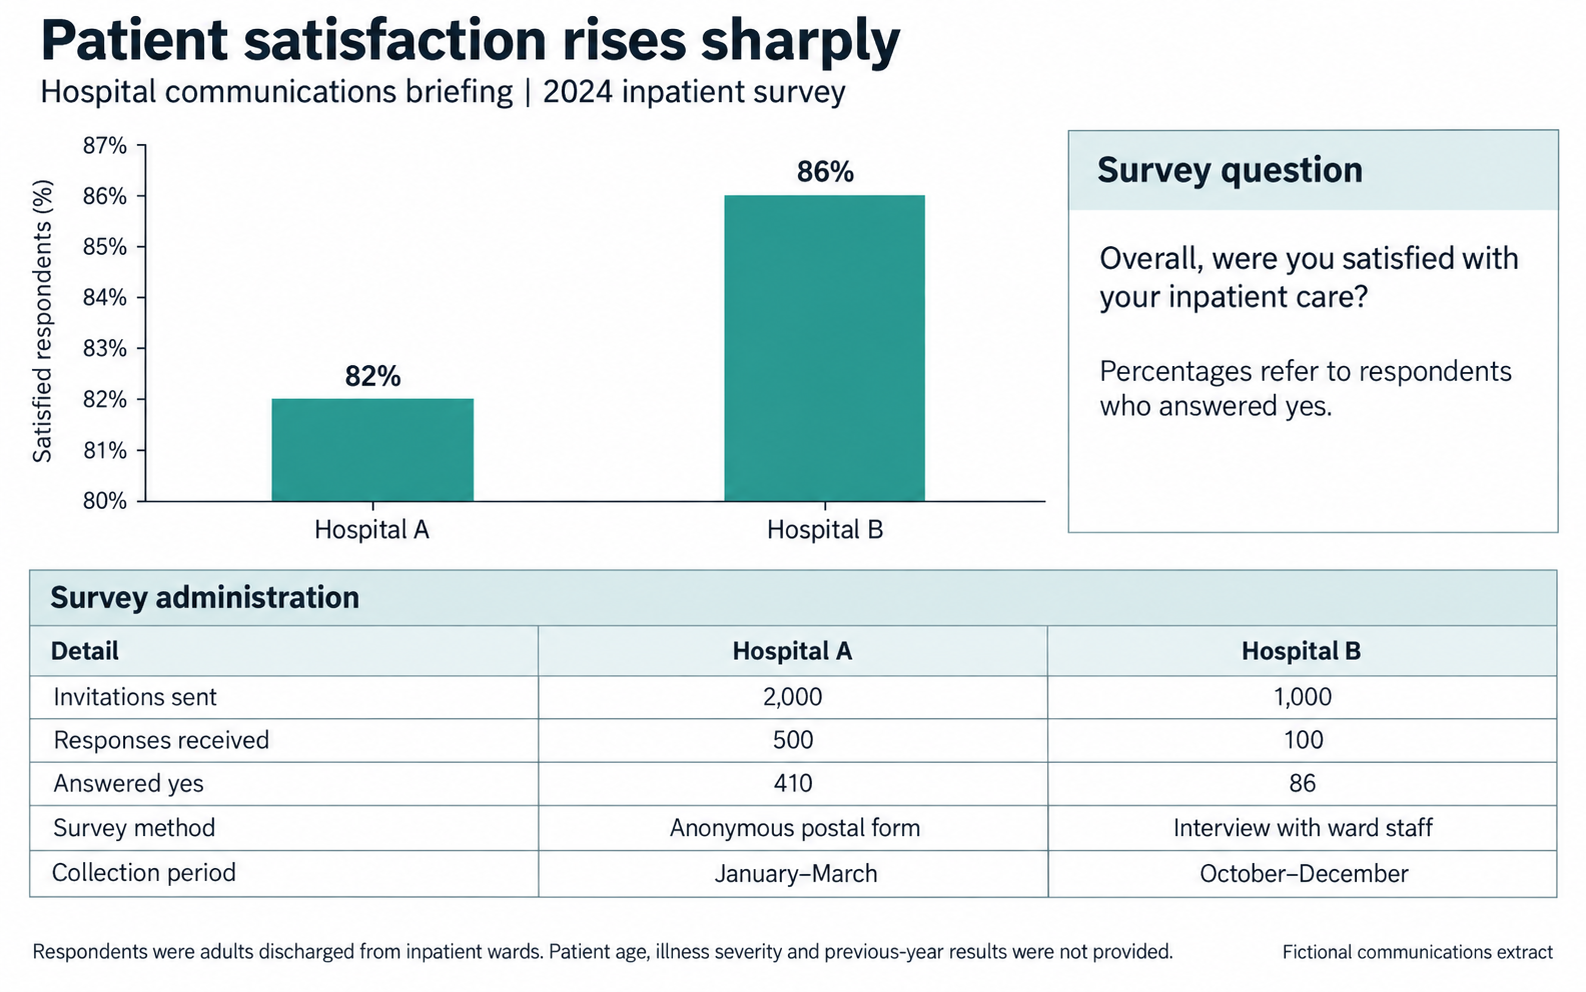
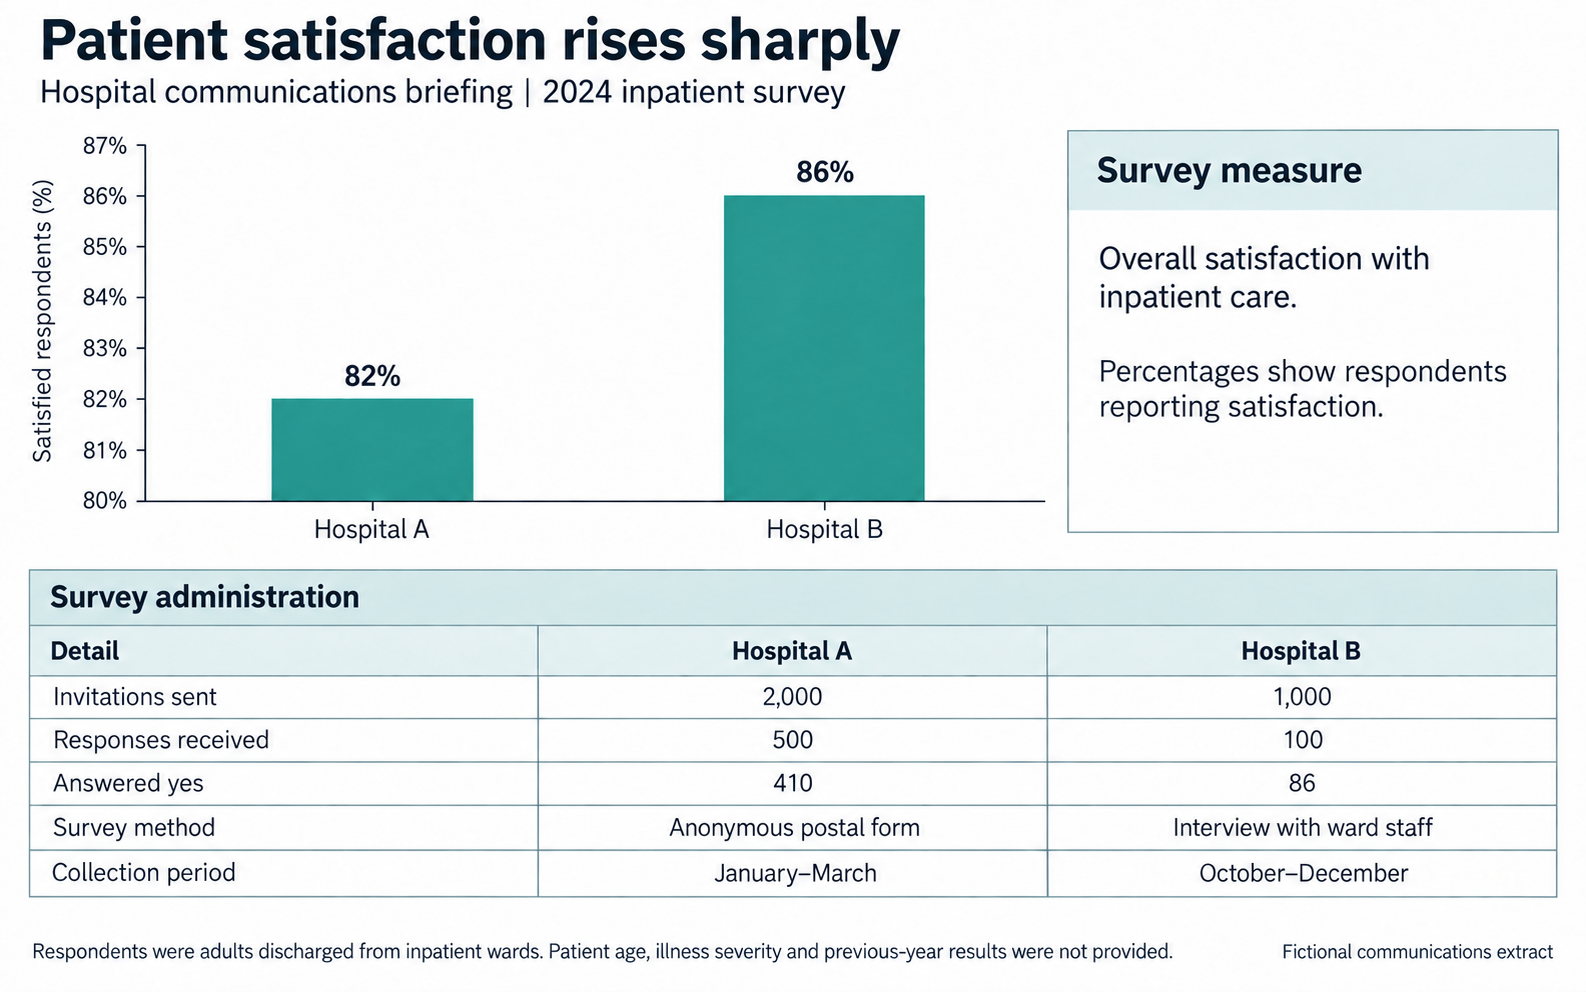
Clean interview stimuli and complete final image batch

diff --git a/docs/interview-stimulus-review-final.md b/docs/interview-stimulus-review-final.md
@@ -1,0 +1,53 @@
+# Interview stimuli: final review
+
+Reviewed 19 September 2026. All 27 saved PNGs were visually inspected. Seventeen required editing; ten were already suitable and left unchanged. Edits used the built-in imagegen tool, not the API/CLI.
+
+## Current requirements
+
+- Images contain evidence/scenario facts and descriptive titles only: no embedded candidate questions, ranking prompts or answer instructions.
+- Questions and assessment instructions belong in separate app text; see [candidate tasks](interview-stimulus-candidate-tasks.txt).
+- Any depicted people are male. Image 27's two standing women were replaced with men; their roles and the collapsed man's position were preserved. Other images contain no women; generic person icons were retained.
+- Preserve the distinct visual styles and original figures. All datasets and scenarios are fictional, not clinical guidance.
+- Images 24 and 27 now have opaque, high-contrast backgrounds. Their earlier unreadable variants were rejected.
+
+## Asset index
+
+| No. | Image | Review outcome |
+| --- | --- | --- |
+| 01 | [GP appointment waits](../public/phloemai/interview-stimuli/iq-18-001-data-stations.png) | Reviewed; unchanged |
+| 02 | [Smoking cessation results](../public/phloemai/interview-stimuli/iq-18-002-data-stations.png) | Reviewed; unchanged |
+| 03 | [Exercise and wellbeing](../public/phloemai/interview-stimuli/iq-18-003-data-stations.png) | Reviewed; unchanged |
+| 04 | [Community diabetes programmes](../public/phloemai/interview-stimuli/iq-18-004-data-stations.png) | Edited and rechecked |
+| 05 | [Ward admissions and discharge delays](../public/phloemai/interview-stimuli/iq-18-005-data-stations.png) | Reviewed; unchanged |
+| 06 | [Patient satisfaction briefing](../public/phloemai/interview-stimuli/iq-18-006-graphs-and-trends.png) | Edited and rechecked |
+| 07 | [Childhood vaccination uptake](../public/phloemai/interview-stimuli/iq-18-007-graphs-and-trends.png) | Reviewed; unchanged |
+| 08 | [Sleep and exam scores](../public/phloemai/interview-stimuli/iq-18-008-graphs-and-trends.png) | Reviewed; unchanged |
+| 09 | [Heart-event risk](../public/phloemai/interview-stimuli/iq-18-009-data-interpretation.png) | Reviewed; unchanged |
+| 10 | [Physiotherapy results](../public/phloemai/interview-stimuli/iq-18-010-data-interpretation.png) | Reviewed; unchanged |
+| 11 | [Energy drinks and concentration](../public/phloemai/interview-stimuli/iq-18-011-critical-appraisal.png) | Reviewed; unchanged |
+| 12 | [Reminder texts and appointments](../public/phloemai/interview-stimuli/iq-18-012-critical-appraisal.png) | Edited and rechecked |
+| 13 | [Asthma-app evaluation](../public/phloemai/interview-stimuli/iq-18-013-article-analysis.png) | Reviewed; unchanged |
+| 14 | [Berry news and study](../public/phloemai/interview-stimuli/iq-18-014-article-analysis.png) | Edited and rechecked |
+| 15 | [Virtual reality and anatomy learning](../public/phloemai/interview-stimuli/iq-18-015-article-analysis.png) | Edited and rechecked |
+| 16 | [Healthcare improvement proposals](../public/phloemai/interview-stimuli/iq-19-001-group-discussion.png) | Edited and rechecked |
+| 17 | [NHS improvement budget](../public/phloemai/interview-stimuli/iq-19-002-group-tasks.png) | Edited and rechecked |
+| 18 | [Overnight on the mountain](../public/phloemai/interview-stimuli/iq-19-003-group-tasks.png) | Edited and rechecked |
+| 19 | [Four patient presentations](../public/phloemai/interview-stimuli/iq-19-008-group-tasks.png) | Edited and rechecked |
+| 20 | [Assessment queue](../public/phloemai/interview-stimuli/iq-20-001-prioritisation-stations.png) | Edited and rechecked |
+| 21 | [Five competing demands](../public/phloemai/interview-stimuli/iq-20-002-prioritisation-stations.png) | Edited and rechecked |
+| 22 | [Team inbox](../public/phloemai/interview-stimuli/iq-20-003-prioritisation-stations.png) | Edited and rechecked |
+| 23 | [Health-service funding proposals](../public/phloemai/interview-stimuli/iq-20-004-prioritisation-stations.png) | Edited and rechecked |
+| 24 | [Public-health investment estimates](../public/phloemai/interview-stimuli/iq-20-005-prioritisation-stations.png) | Edited and rechecked |
+| 25 | [A difficult Thursday](../public/phloemai/interview-stimuli/iq-20-007-prioritisation-stations.png) | Edited and rechecked |
+| 26 | [Four patient-safety concerns](../public/phloemai/interview-stimuli/iq-20-008-prioritisation-stations.png) | Edited and rechecked |
+| 27 | [Several events happen at once](../public/phloemai/interview-stimuli/iq-20-009-prioritisation-stations.png) | Edited and rechecked |
+
+## Checks and scope
+
+Compared edited output against the input for figures, labels, dates, scenario details and remaining question/instruction text. The deliberately misleading headline/axis in image 6 and fictional newspaper claim in image 14 remain because they are the evidence being appraised, not answer hints. Survey wording in image 6 and question-style research titles were converted to factual descriptions. Requests in image 22 were rephrased as reported facts without losing deadlines. Budget and carrying-capacity constraints remain as facts.
+
+All 27 files decode as landscape PNGs. This is asset preparation only: no database changes, question-bank wiring or completed markschemes were included in this pass. A subject-expert review and separate markscheme are still needed before use with candidates.
+
+## Prompt precedence
+
+[Final cleanup prompts](interview-stimulus-image-prompts-cleanup-final.txt) record the exact edits and supersede conflicting wording in earlier prompt files. Earlier prompt documents are historical generation references, not instructions to restore embedded questions. All selected outputs are saved in public/phloemai/interview-stimuli; generated source files remain outside the repo in Codex's generated_images directory. Prior tracked assets remain recoverable through Git history.
